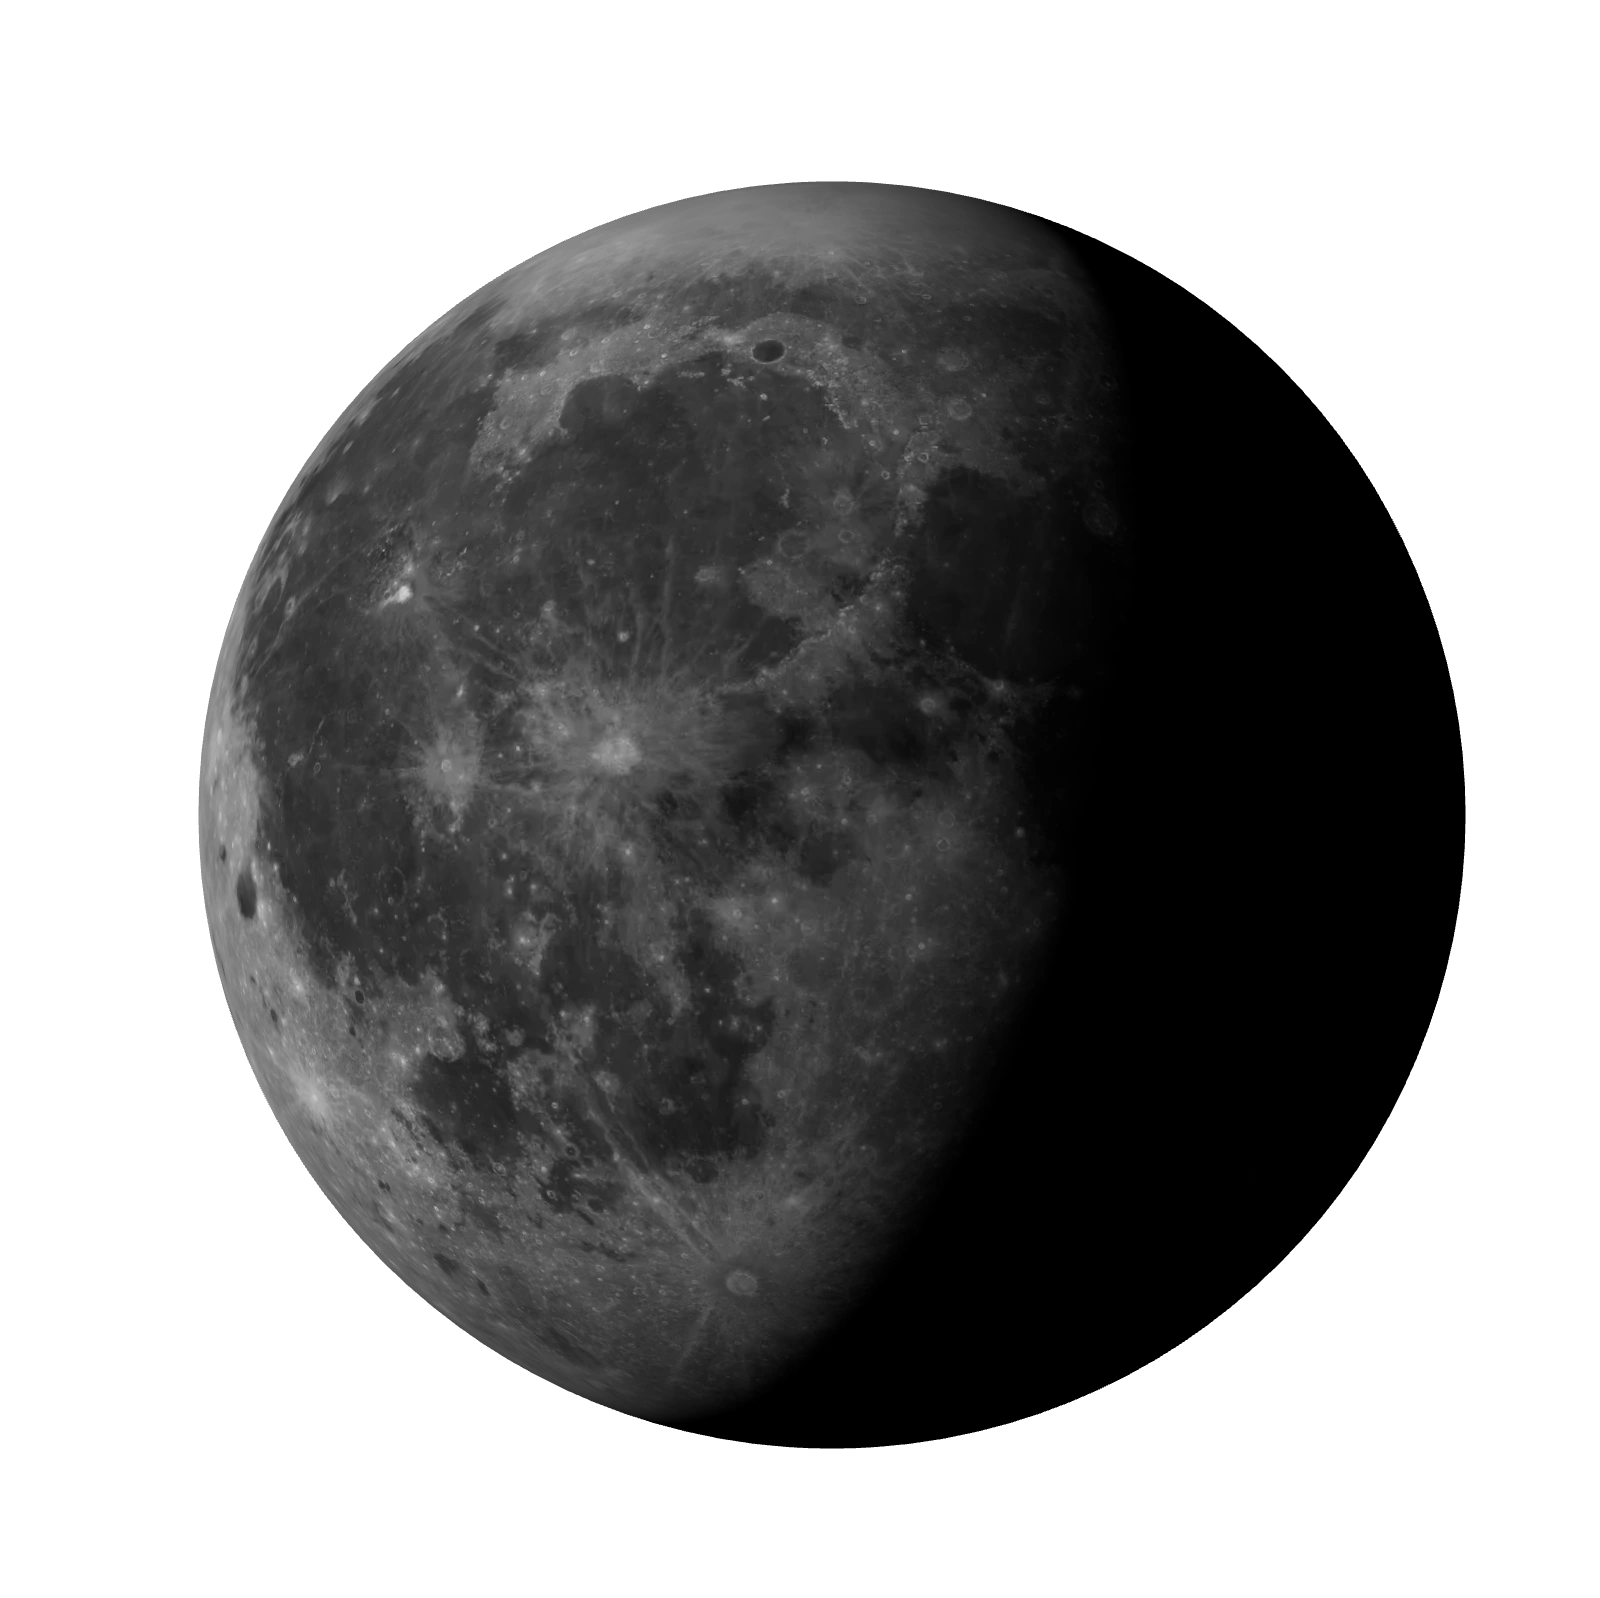
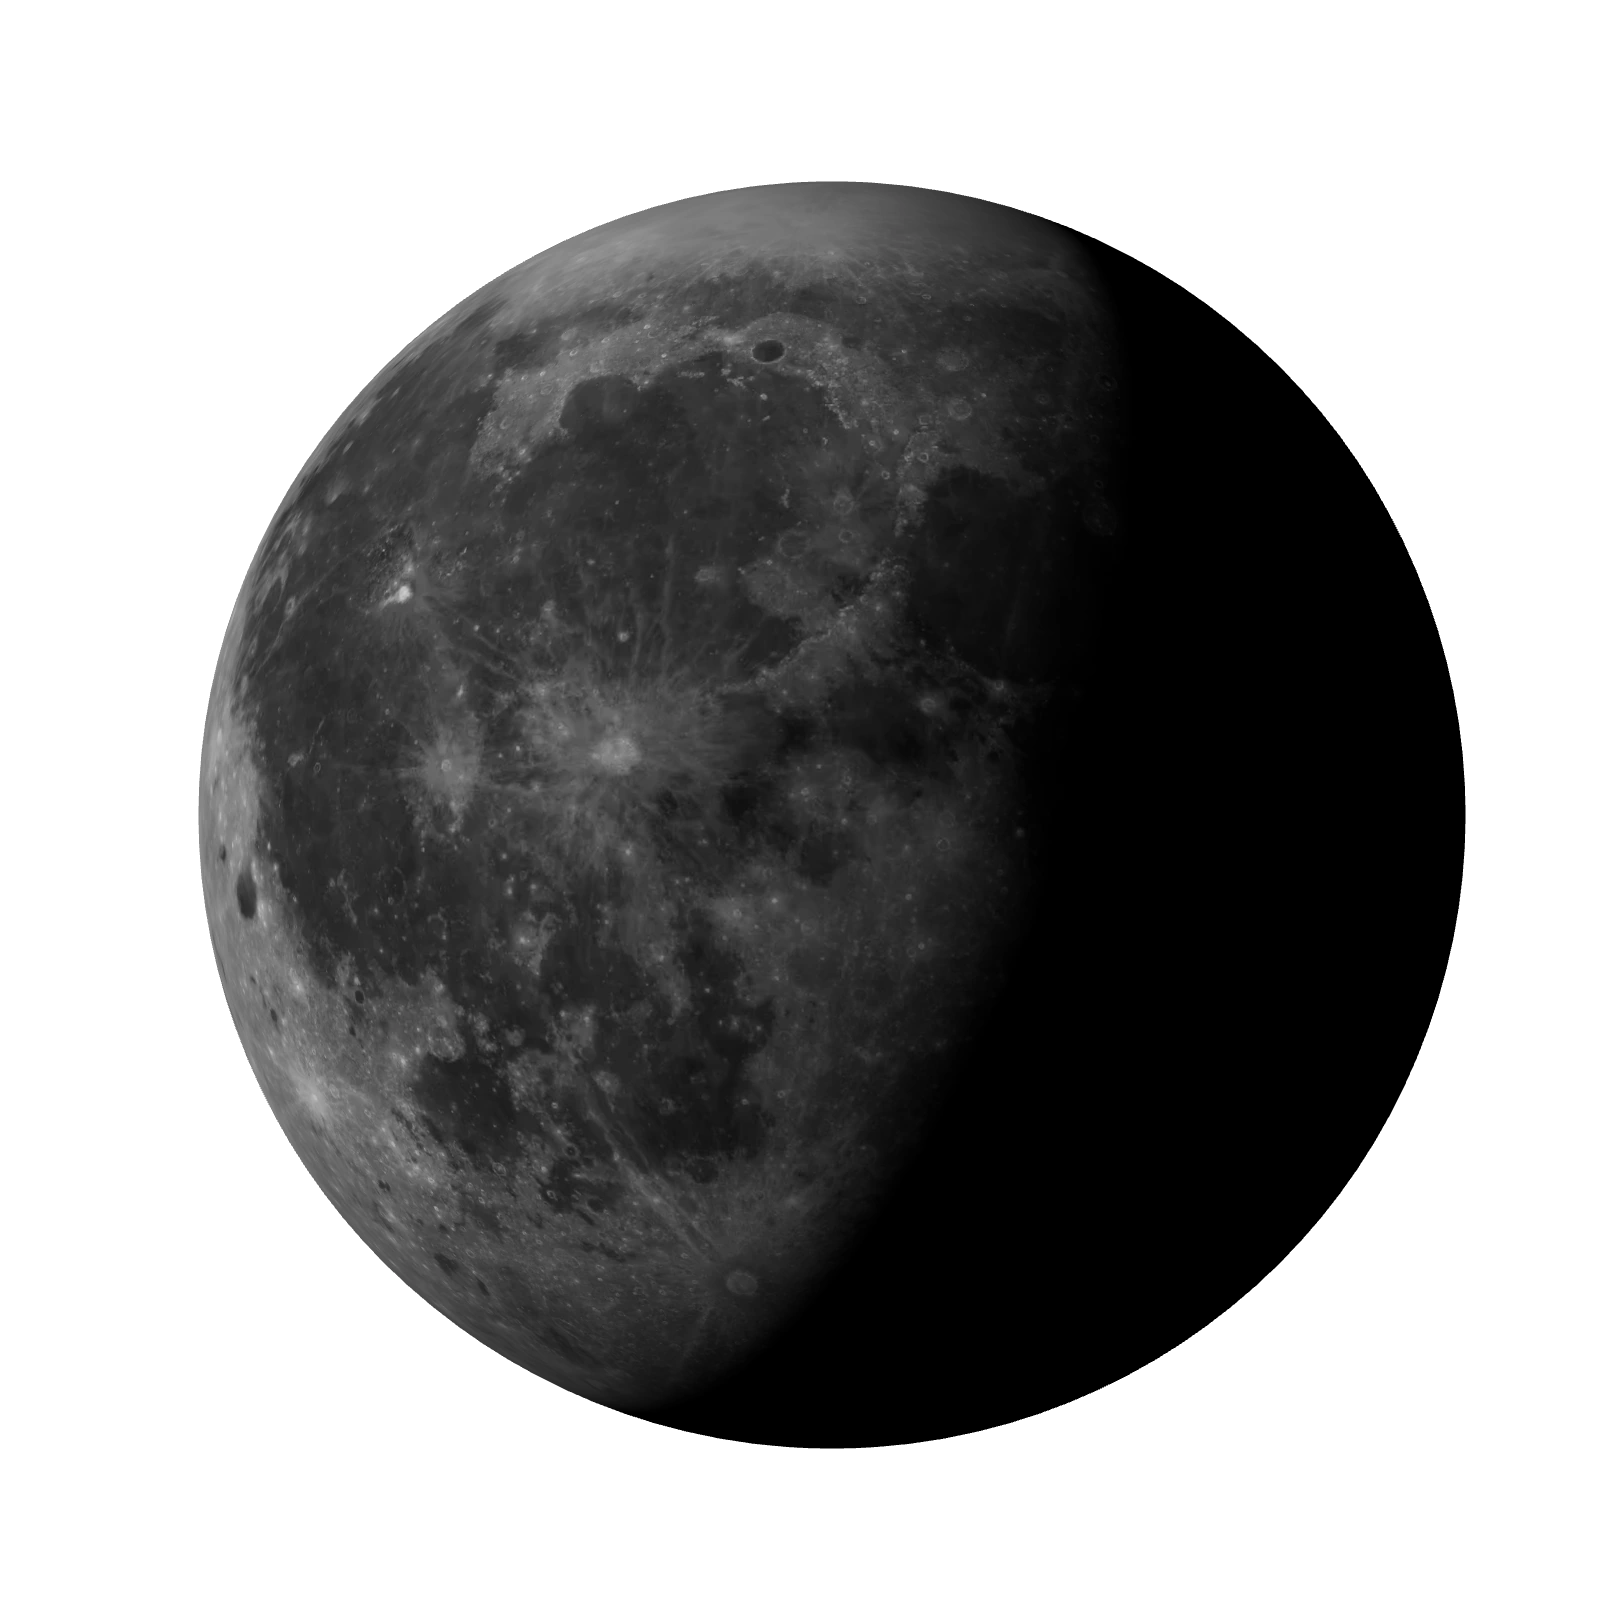
test: preview interactive lunar scene

Changed region(s): [[0.375, 0.7053, 0.5938, 0.8892]]

diff --git a/src/components/ui/lunarScene.js b/src/components/ui/lunarScene.js
@@ -1,6 +1,6 @@
 import * as THREE from "three";
 
-/** A still, demand-rendered moon. This module is loaded only after the Hero is visible. */
+/** A demand-rendered moon with bounded, desktop-only pointer response. This module is loaded only after the Hero is visible. */
 export function mountLunarScene(host, { onReady, onError }) {
   const resources = new Set();
   const bitmaps = new Set();
@@ -18,6 +18,15 @@ export function mountLunarScene(host, { onReady, onError }) {
   let camera;
   let ready = false;
   let shaderFailed = false;
+  let moon;
+  let tiltX = 0;
+  let tiltY = 0;
+  let targetX = 0;
+  let targetY = 0;
+  let lastFrameTime = null;
+  const pointerMedia = window.matchMedia("(hover: hover) and (pointer: fine) and (min-width: 1024px)");
+  const reducedMedia = window.matchMedia("(prefers-reduced-motion: reduce)");
+  const canInteract = () => pointerMedia.matches && !reducedMedia.matches;
 
   const own = (resource) => {
     resources.add(resource);
@@ -33,6 +42,11 @@ export function mountLunarScene(host, { onReady, onError }) {
     resizeObserver?.disconnect();
     visibilityObserver?.disconnect();
     document.removeEventListener("visibilitychange", handleVisibility);
+    window.removeEventListener("pointermove", handlePointer);
+    window.removeEventListener("blur", resetPointer);
+    document.removeEventListener("pointerleave", resetPointer);
+    pointerMedia.removeEventListener("change", handleMotionPreference);
+    reducedMedia.removeEventListener("change", handleMotionPreference);
     renderer?.domElement.removeEventListener("webglcontextlost", handleContextLost);
     renderer?.domElement.remove();
     resources.forEach((resource) => resource.dispose());
@@ -65,10 +79,19 @@ export function mountLunarScene(host, { onReady, onError }) {
 
   const requestRender = () => {
     if (stopped || !loaded || !inView || document.hidden || frame !== null) return;
-    frame = requestAnimationFrame(() => {
+    frame = requestAnimationFrame((time) => {
       frame = null;
       if (stopped || !inView || document.hidden) return;
       try {
+        const delta = lastFrameTime === null ? 16.67 : Math.min(time - lastFrameTime, 50);
+        lastFrameTime = time;
+        const blend = 1 - Math.exp(-delta / 110);
+        tiltX += (targetX - tiltX) * blend;
+        tiltY += (targetY - tiltY) * blend;
+        const settling = Math.abs(targetX - tiltX) + Math.abs(targetY - tiltY) > 0.00008;
+        if (!settling) { tiltX = targetX; tiltY = targetY; }
+        moon.rotation.x = tiltX;
+        moon.rotation.y = -Math.PI / 2 + tiltY;
         renderer.render(scene, camera);
         if (shaderFailed) {
           fail("shader-error");
@@ -79,11 +102,41 @@ export function mountLunarScene(host, { onReady, onError }) {
           ready = true;
           onReady();
         }
+        if (settling) requestRender();
+        else lastFrameTime = null;
       } catch {
         fail("render-error");
       }
     });
   };
+
+  function resetPointer() {
+    targetX = 0;
+    targetY = 0;
+    requestRender();
+  }
+
+  function handleMotionPreference() {
+    // Preference changes are immediate: reduced motion never eases towards neutral.
+    targetX = targetY = tiltX = tiltY = 0;
+    lastFrameTime = null;
+    requestRender();
+  }
+
+  function handlePointer(event) {
+    if (!ready || !canInteract() || event.pointerType !== "mouse" || !inView || document.hidden) return;
+    const hero = host.closest("#hero");
+    const bounds = hero?.getBoundingClientRect();
+    if (!bounds || event.clientY < bounds.top || event.clientY > bounds.bottom) {
+      resetPointer();
+      return;
+    }
+    const x = Math.max(-1, Math.min(1, (event.clientX - bounds.left) / bounds.width * 2 - 1));
+    const y = Math.max(-1, Math.min(1, (event.clientY - bounds.top) / bounds.height * 2 - 1));
+    targetX = y * 0.018;
+    targetY = x * 0.035;
+    requestRender();
+  }
 
   function handleVisibility() {
     if (document.hidden && frame !== null) {
@@ -158,7 +211,7 @@ export function mountLunarScene(host, { onReady, onError }) {
     if (renderer.capabilities.maxTextureSize < 1024) throw new Error("Insufficient texture capacity");
     renderer.outputColorSpace = THREE.SRGBColorSpace;
     renderer.toneMapping = THREE.ACESFilmicToneMapping;
-    renderer.toneMappingExposure = 1.15;
+    renderer.toneMappingExposure = 1.08;
     renderer.setClearColor(0x000000, 0);
     renderer.domElement.setAttribute("aria-hidden", "true");
     renderer.domElement.addEventListener("webglcontextlost", handleContextLost);
@@ -178,18 +231,18 @@ export function mountLunarScene(host, { onReady, onError }) {
       color: 0xd9d9d9,
       roughness: 1,
       metalness: 0,
-      bumpScale: 0.025,
+      bumpScale: 0.045,
     }));
-    const moon = new THREE.Mesh(geometry, material);
+    moon = new THREE.Mesh(geometry, material);
     // Bring the near-side maria (middle of the equirectangular map) towards the camera.
     moon.rotation.y = -Math.PI / 2;
     moon.rotation.z = -0.08;
     scene.add(moon);
 
-    const sun = new THREE.DirectionalLight(0xf4f2ec, 3.1);
-    sun.position.set(-3.5, 1.1, 1.65);
+    const sun = new THREE.DirectionalLight(0xf4f2ec, 3.0);
+    sun.position.set(-3.5, 1.3, 1.45);
     scene.add(sun);
-    scene.add(new THREE.AmbientLight(0xdce1e8, 0.018));
+    scene.add(new THREE.AmbientLight(0xdce1e8, 0.012));
 
     resizeObserver = new ResizeObserver(resize);
     resizeObserver.observe(host);
@@ -203,6 +256,11 @@ export function mountLunarScene(host, { onReady, onError }) {
     });
     visibilityObserver.observe(host);
     document.addEventListener("visibilitychange", handleVisibility);
+    window.addEventListener("pointermove", handlePointer, { passive: true });
+    window.addEventListener("blur", resetPointer);
+    document.addEventListener("pointerleave", resetPointer);
+    pointerMedia.addEventListener("change", handleMotionPreference);
+    reducedMedia.addEventListener("change", handleMotionPreference);
     resize();
 
     const variant = smallMaps ? "1k" : "2k";

diff --git a/public/hero/CREDITS.md b/public/hero/CREDITS.md
@@ -55,3 +55,7 @@ The NASA SVS reference https://svs.gsfc.nasa.gov/4720/ was checked again on 2026
 `space-stars.svg` (1920 × 2800, 1900 points, seed 47220) and `space-stars-mobile.svg` (600 × 2800, 850 points, seed 47221) are original procedural SVG point fields prepared for this portfolio. Uniform irregular points and soft Gaussian concentrations vary radius, opacity and neutral/cool-white color, with quieter areas near the text. No external imagery, nebula photograph, copied design, AI-generated image, or NASA texture is used for these star fields. Existing original star SVGs remain for traceability. The atmospheric tint and continuous black fade are CSS gradients, with no animation or particle engine. Moon assets and their provenance limitations above remain unchanged.
 
 Stage 4.7.2.1 refines these same original procedural fields: increased upper-field density, varied radii (0.4–2.15 SVG units), and modestly brighter stars. Seeds and dimensions are unchanged; no third-party resources added.
+
+## Lunar depth refinement (Stage 4.7.3)
+
+The existing equirectangular color/elevation maps are reused without downloads or edits. The two `moon-render-*.webp` fallbacks were regenerated from the neutral local Three.js scene after its bump and lighting adjustments, using Chromium/SwiftShader, the unchanged orthographic framing and 2k/1k maps respectively. Transparent PNG renders (1600×1598 and 640×639) were converted to grayscale, retaining alpha, then encoded as WebP quality 94, method 6. They represent the neutral scene; the small desktop pointer tilt is intentionally absent from the static fallback. Existing NASA SVS mirror provenance and direct-verification limitations remain applicable; no new verification or license claim is made.
